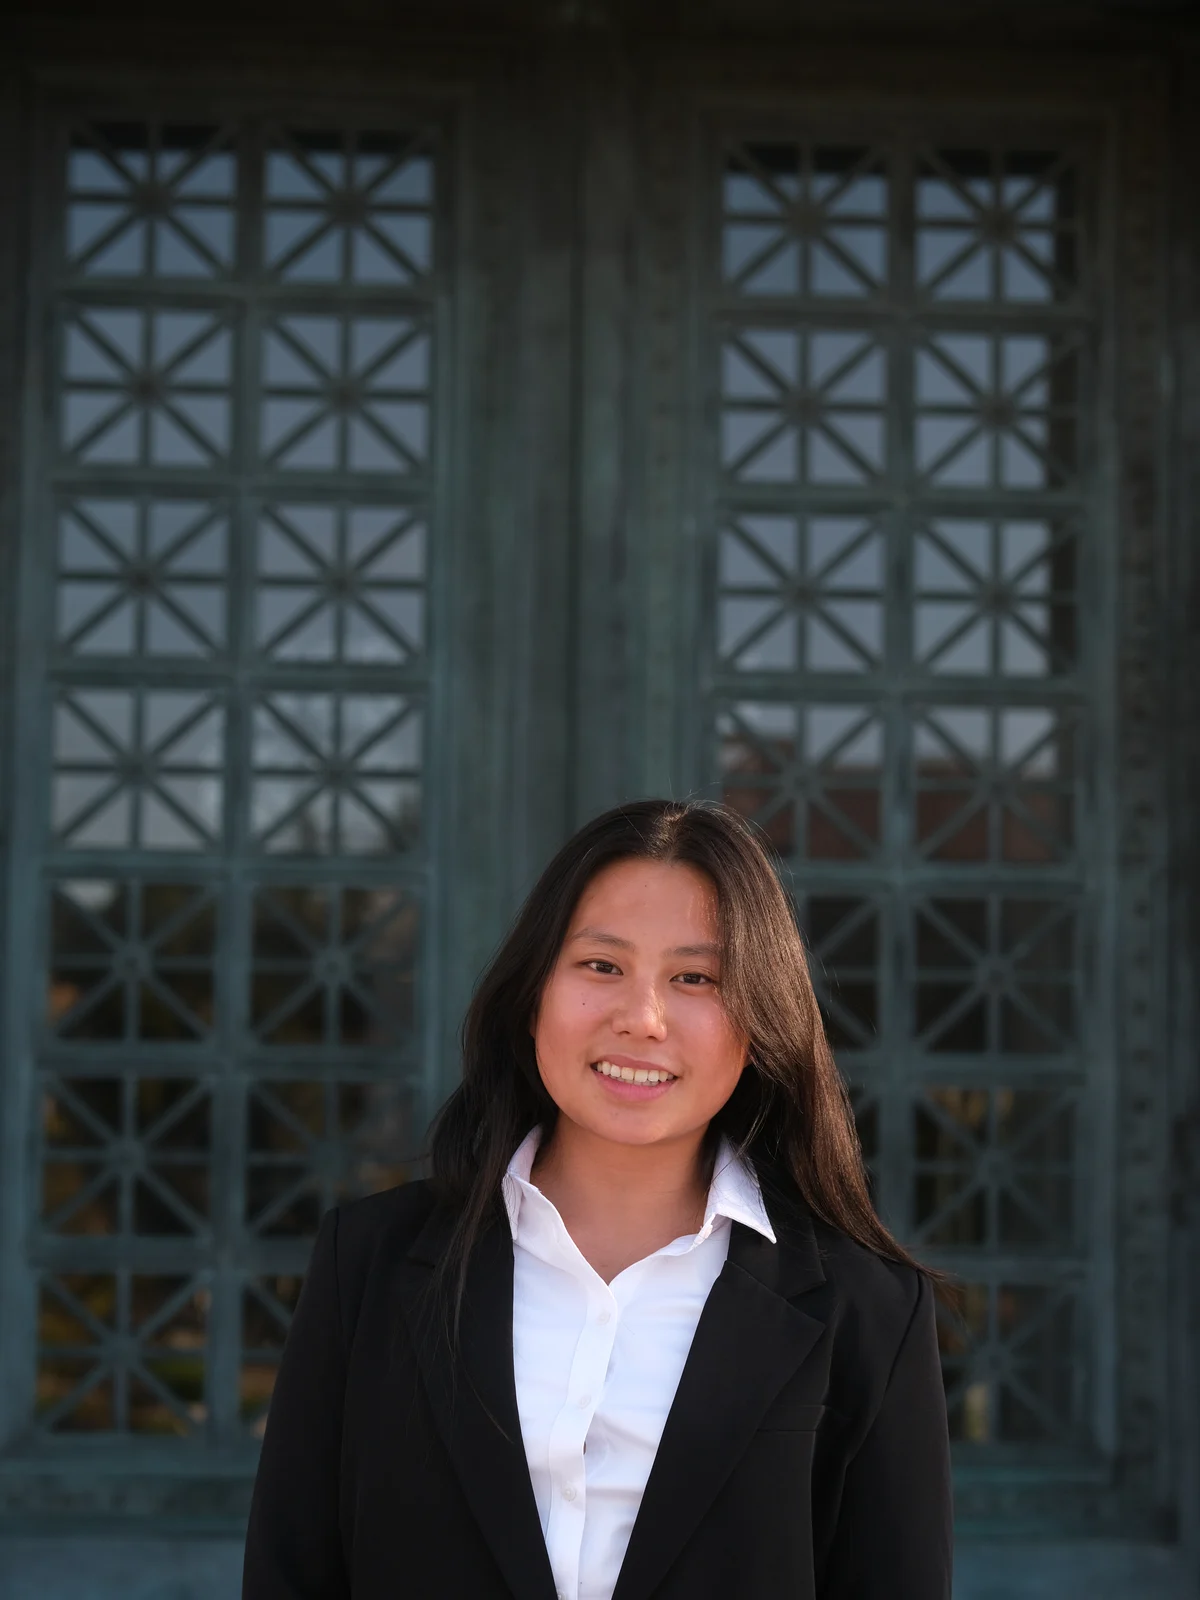
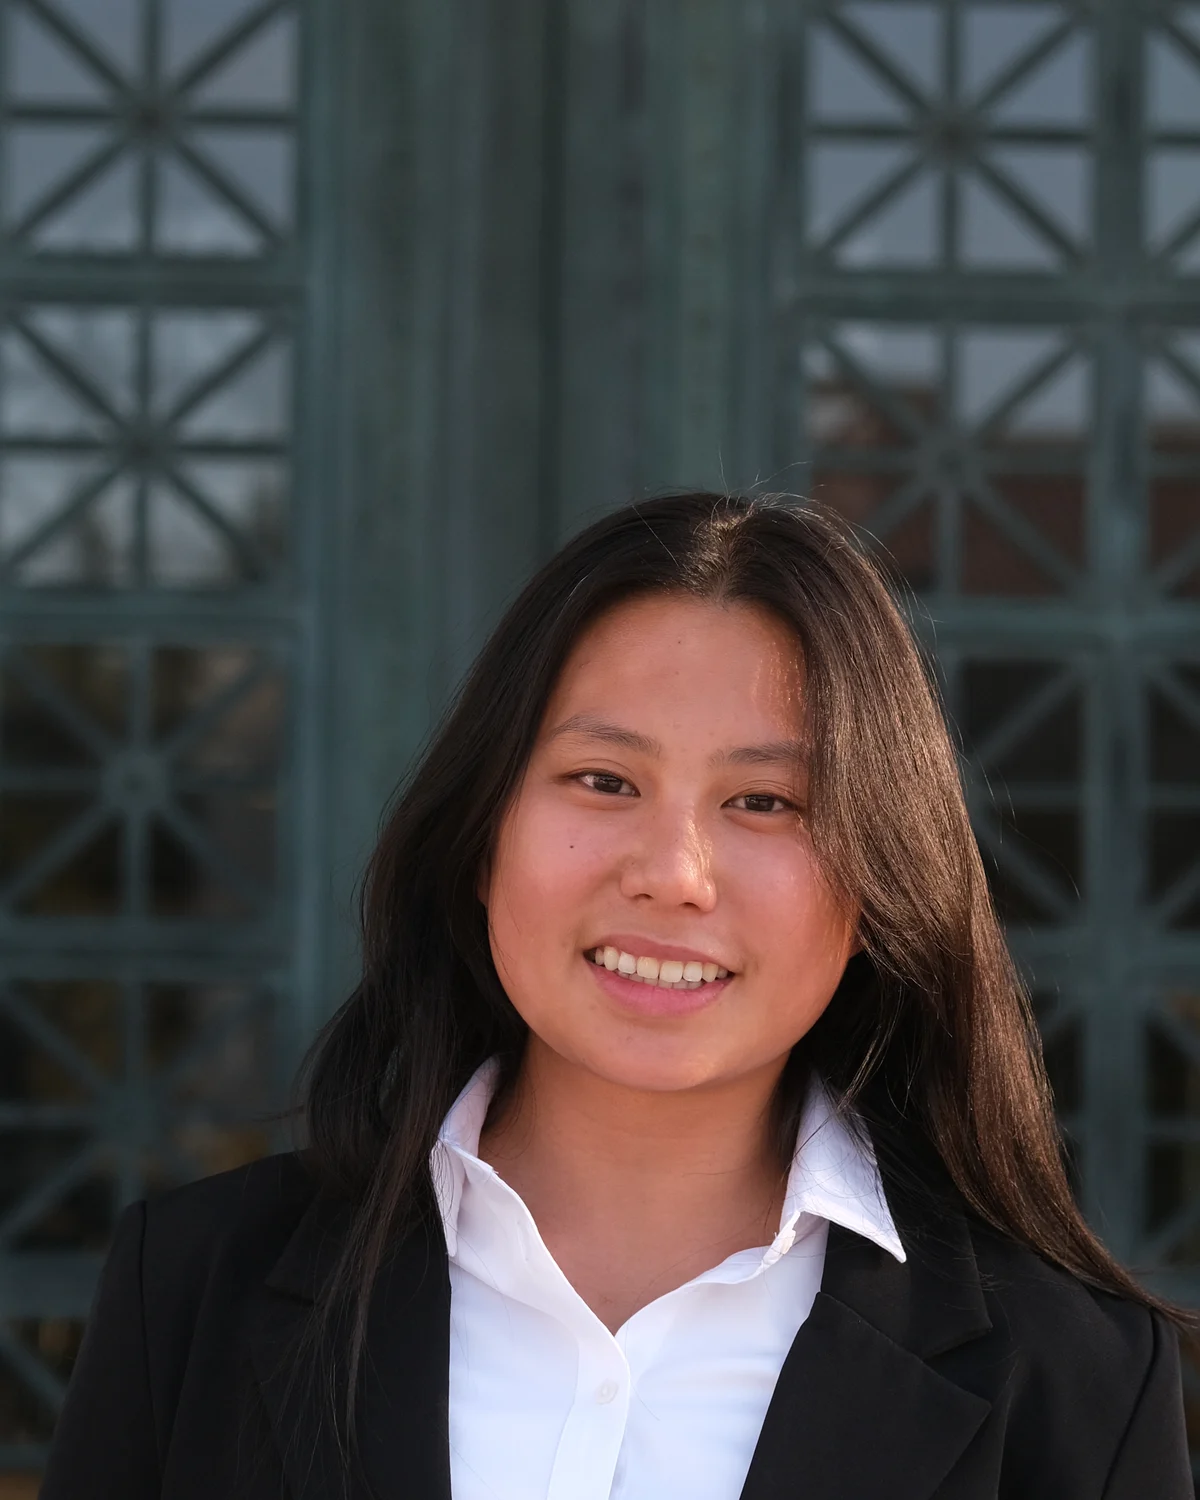
Fix Now Showing tickets; career hover; take-one schooling; casting crop; skills chips; LinkedIn; Inception note

diff --git a/index.html b/index.html
@@ -336,25 +336,19 @@
 
   <!-- ============ DIRECTOR'S NOTE ============ -->
   <section id="note" class="section note-wrap" aria-labelledby="note-title">
-    <article class="card note">
+    <article class="card note note--thought">
+      <p class="note__take" aria-hidden="true"><span class="clip clip--sm"></span>take one</p>
       <h2 id="note-title" class="title">A note from the director</h2>
-      <p class="note__hi">Hi, I&rsquo;m Sheina.</p>
-      <p>I&rsquo;m a junior at UC Berkeley studying Data Science and Business at Haas, and my work sits at the intersection of AI, product, and strategy.</p>
-      <p>This past summer that meant building an agentic procurement platform at Cloudflare. Before that it meant consulting for Series B through F companies on AI product decisions, launching Perplexity on campus (2,000 signups in 24 hours), and supporting M&amp;A deals in Indonesia at Deloitte (market sizing, buyer segmentation, due diligence and financial models). In high school I founded a cement company that rebuilt earthquake-damaged infrastructure and ended up on CNN. I&rsquo;m still not entirely sure how that happened.</p>
-      <p>What connects all of it is a tendency to show up at the messy early stage of hard problems, figure out what is actually going on, and build something that makes it better. I care about working on things that are genuinely difficult, with people who take the work seriously.</p>
-      <p>Lately I&rsquo;ve been doing more of the building myself as I move toward AI/ML. This little picture house is where I keep what I make along the way. The first two started with things that bugged me: the air I grew up breathing, and how many cookies follow me around the internet.</p>
+      <p class="note__hi">Favorite frame: <em>Inception</em>.</p>
+      <p>It&rsquo;s the movie that makes me think the longest after the credits. Nested dreams, unreliable layers, the question of what you&rsquo;re actually optimizing for when the world looks real enough. I keep coming back to it.</p>
       <p class="note__sign">Warmly,<span>Sheina</span></p>
-      <p class="note__ps">P.S. If you also boulder or have a movie I need to watch, tell me. Both require more patience than people expect.</p>
     </article>
 
-    <aside class="card soon" aria-labelledby="soon-title">
-      <h2 id="soon-title" class="soon__title">Currently in production</h2>
-      <dl>
-        <div><dt>working on</dt><dd><a href="https://berkeleytime.com/">Berkeleytime</a>, as a product manager and data analyst. I started out as one of its 20K+ users.</dd></div>
-        <div><dt>studying</dt><dd>Data Science + Business at Haas, class of 2028.</dd></div>
-        <div><dt>building</dt><dd>small AI/ML tools on the side, and showing them here.</dd></div>
-        <div><dt>reading</dt><dd>everything with Readwise open, so the highlights actually stick.</dd></div>
-      </dl>
+    <aside class="card soon soon--align" aria-labelledby="align-title">
+      <p class="soon__kicker">reel notes</p>
+      <h2 id="align-title" class="soon__title">On algorithmic safety</h2>
+      <p>Lately I&rsquo;ve been reading about AI alignment &mdash; how you get a system to care about the right thing when &ldquo;the right thing&rdquo; is hard to write down. Same itch as Inception: the map isn&rsquo;t the territory, and a confident model can still be dreaming.</p>
+      <p class="soon__fact"><b>A discovery I keep turning over:</b> most failures aren&rsquo;t cartoon villainy. They&rsquo;re specification gaming &mdash; hitting the metric while missing the meaning. That&rsquo;s the problem I want to get better at noticing.</p>
     </aside>
   </section>
 
@@ -398,7 +392,7 @@
         <p class="feature__kicker"><span>Feature No. 1</span><span class="chip chip--live">Live data</span></p>
         <h3 class="feature__title">Air Quality Explorer</h3>
         <ul class="chips" aria-label="Details"><li>web app</li><li>2026</li><li>data viz</li><li>forecasting</li><li>maps</li></ul>
-        <p>Live PM2.5 for 25 cities. History, a five-day forecast, a plain health note, and the cleanest hour to go outside. Grew out of my Haas PM2.5 research.</p>
+        <p>Live PM2.5 for 25 cities, mostly around the Bay plus big U.S. cities and Jakarta. Click a city for a week of history, a five-day forecast, a plain-English health note, and a small model that picks the cleanest hour to head outside. It grew out of my PM2.5 research at the Energy Institute at Haas.</p>
         <p class="fineprint"><b>A note on the print:</b> data from a global air-quality model, so it shows regional air, not street-level sensors.</p>
         <p class="tickets">
           <a class="ticket" href="https://sheinapribadi-star.github.io/air-quality-explorer/"><span class="ticket__stub">admit one</span><span class="ticket__main">Open the live site <span aria-hidden="true">&#8599;</span></span></a>
@@ -419,7 +413,7 @@
         <p class="feature__kicker"><span>Feature No. 2</span><span class="chip chip--live">v1.0.0</span></p>
         <h3 class="feature__title">Cookie Lens</h3>
         <ul class="chips" aria-label="Details"><li>chrome extension</li><li>2026</li><li>privacy</li><li>interface design</li></ul>
-        <p>A Chrome extension that names every cookie on the page and why it&rsquo;s there. Delete one or all; the dashboard shows who follows you across sites.</p>
+        <p>A Chrome extension that shows every cookie on the page you&rsquo;re on and labels the trackers with a plain reason, like &ldquo;set by pubmatic.com, a known ad tracker, lasts 3 months.&rdquo; Delete them one at a time or all at once, and open the dashboard to see which companies follow you across the most sites.</p>
         <p class="fineprint"><b>A note on the print:</b> ratings come from an open cookie database and Disconnect&rsquo;s tracker list. Nothing leaves your browser.</p>
         <p class="tickets">
           <a class="ticket" href="https://github.com/sheinapribadi-star/cookie-lens/releases/tag/v1.0.0"><span class="ticket__stub">take home</span><span class="ticket__main">Download v1.0.0 <span aria-hidden="true">&#8599;</span></span></a>
@@ -688,28 +682,21 @@
       </li>
     </ul>
     <div class="pair pair--studio">
-      <aside class="clipboard" aria-labelledby="school-title">
-        <div class="clipboard__clip" aria-hidden="true"><span></span></div>
-        <div class="clipboard__board">
-          <p class="clipboard__slug">TAKE ONE &middot; CONTINUITY</p>
-          <h3 id="school-title" class="clipboard__title">Schooling</h3>
-          <p class="clipboard__meta">shooting schedule &middot; Berkeley unit</p>
-          <ol class="clipboard__rows">
-            <li>
-              <span class="clipboard__sc">SC. 01</span>
-              <span class="clipboard__who">Haas School of Business</span>
-              <span class="clipboard__what">B.S. Business Administration</span>
-              <span class="clipboard__when">2024&ndash;2028</span>
-            </li>
-            <li>
-              <span class="clipboard__sc">SC. 02</span>
-              <span class="clipboard__who">CDSS</span>
-              <span class="clipboard__what">B.A. Data Science</span>
-              <span class="clipboard__when">2024&ndash;2028</span>
-            </li>
-          </ol>
-          <p class="clipboard__stamp" aria-hidden="true">APPROVED</p>
-        </div>
+      <aside class="take take--school" aria-labelledby="school-title">
+        <p class="take__clip" aria-hidden="true"><span class="clip clip--sm"></span></p>
+        <p class="take__slug">take one &middot; continuity</p>
+        <h3 id="school-title" class="take__title">Schooling</h3>
+        <p class="take__meta">Berkeley unit &middot; class of 2028</p>
+        <ul class="take__list">
+          <li>
+            <strong>Haas School of Business</strong>
+            <span>B.S. Business Administration &middot; 2024&ndash;2028</span>
+          </li>
+          <li>
+            <strong>CDSS</strong>
+            <span>B.A. Data Science &middot; 2024&ndash;2028</span>
+          </li>
+        </ul>
       </aside>
 
       <aside class="rt" aria-labelledby="reviews-title">
@@ -758,7 +745,7 @@
         <figure class="actor__photo">
           <span class="clip" aria-hidden="true"></span>
           <span class="tape" aria-hidden="true"></span>
-          <img src="/img/sheina-480.webp" srcset="/img/sheina-480.webp 480w, /img/sheina-800.webp 800w, /img/sheina-1200.webp 1200w" sizes="(min-width: 900px) 260px, 55vw" width="480" height="640" alt="Sheina smiling in a black blazer over a white collared shirt" loading="lazy" decoding="async" />
+          <img src="/img/sheina-480.webp" srcset="/img/sheina-480.webp 480w, /img/sheina-800.webp 800w, /img/sheina-1200.webp 1200w" sizes="(min-width: 900px) 260px, 55vw" width="480" height="600" alt="Sheina smiling in a black blazer over a white collared shirt" loading="lazy" decoding="async" />
         </figure>
         <article class="actor__sheet" aria-labelledby="cast-arch-k">
           <p class="cast__stamp" aria-hidden="true">Cast!</p>
@@ -767,9 +754,20 @@
           <p id="cast-arch-k" class="cast__k">archetype</p>
           <blockquote class="cast__arch"><p>&ldquo;A trusted and tactful trouble-shooter.&rdquo;</p></blockquote>
           <p class="cast__desc">Warm, value-driven, and at her best on work that meets a deep ideal.</p>
-          <ul class="actor__chips" aria-label="Quick facts">
-            <li>English &amp; Indonesian <small>native</small></li>
-            <li>Mandarin <small>basic</small></li>
+                    <ul class="actor__chips" aria-label="Languages, skills, and off-set habits">
+            <li class="chip--lang">English <small>native</small></li>
+            <li class="chip--lang">Indonesian <small>native</small></li>
+            <li class="chip--lang">Mandarin <small>basic</small></li>
+            <li>Sustainability strategy</li>
+            <li>Business Strategy</li>
+            <li>Project Management</li>
+            <li>Python</li>
+            <li>Data Analysis</li>
+            <li>Stakeholder Engagement</li>
+            <li>Consumer Research</li>
+            <li>Presentation Design</li>
+            <li>Marketing Campaigns</li>
+            <li>Event Management</li>
             <li>bouldering</li>
             <li>too many movies</li>
             <li>Readwise</li>
@@ -801,11 +799,6 @@
         </ul>
       </div>
     </div>
-    <div class="specs specs--slim" role="group" aria-labelledby="specs-title">
-      <p class="specs__bar" aria-hidden="true"><i></i><i></i><i></i><span>sheina --skills</span></p>
-      <h3 id="specs-title" class="sr">Skills</h3>
-      <ul class="specs__chips"><li>Sustainability strategy</li><li>Business Strategy</li><li>Project Management</li><li>Python</li><li>Data Analysis</li><li>Stakeholder Engagement</li><li>Consumer Research</li><li>Presentation Design</li><li>Marketing Campaigns</li><li>Event Management</li></ul>
-    </div>
   </section>
 
   <!-- ============ CONCESSION STAND ============ -->
@@ -823,6 +816,10 @@
           <li>
             <span class="menu__item">A peek at the code</span><span class="menu__dots" aria-hidden="true"></span><span class="menu__price">free</span>
             <span class="menu__detail"><a href="https://github.com/sheinapribadi-star">github.com/sheinapribadi-star</a></span>
+          </li>
+          <li>
+            <span class="menu__item">LinkedIn</span><span class="menu__dots" aria-hidden="true"></span><span class="menu__price">free</span>
+            <span class="menu__detail"><a href="https://www.linkedin.com/in/sheinapribadi">linkedin.com/in/sheinapribadi</a></span>
           </li>
           <li>
             <span class="menu__item">Popcorn</span><span class="menu__dots" aria-hidden="true"></span><span class="menu__price">on the house</span>

diff --git a/src/show.css b/src/show.css
@@ -774,43 +774,8 @@ html.js .actor:not(.is-in) .trait__bar i { transform: scaleX(0); }
   display: grid; grid-template-columns: repeat(auto-fill, minmax(200px, 1fr));
   gap: 1.1rem 1rem;
 }
-.ticket {
-  position: relative; width: 100%; height: 320px; perspective: 1200px;
-  list-style: none;
-}
-.ticket .poster__card {
-  border-radius: 12px;
-  box-shadow: 5px 5px 0 color-mix(in srgb, var(--ink) 70%, transparent);
-}
-.ticket .poster__face {
-  border: 2.5px solid var(--ink); border-radius: 12px;
-  padding: .85rem .85rem 1rem;
-  /* ticket stub edge */
-  background-image:
-    radial-gradient(circle at 0 50%, transparent 7px, var(--tint) 7.5px);
-  background-position: left center; background-size: 14px 100%; background-repeat: no-repeat;
-  padding-left: 1.15rem;
-}
-.ticket .poster__front {
-  background-color: var(--tint);
-  background-image:
-    radial-gradient(circle at 0 50%, var(--cream) 7px, transparent 7.5px),
-    linear-gradient(90deg, color-mix(in srgb, var(--ink) 12%, transparent) 0 10px, transparent 10px);
-}
-.ticket .poster__back {
-  background-color: var(--paper);
-  background-image:
-    radial-gradient(circle at 0 50%, var(--cream) 7px, transparent 7.5px),
-    linear-gradient(90deg, color-mix(in srgb, var(--ink) 10%, transparent) 0 10px, transparent 10px);
-}
-.ticket .poster__doodle { width: 78px; height: 78px; margin: .7rem auto .5rem; }
-.ticket .poster__title { font-size: 1.65rem; }
-.ticket .poster__title--long { font-size: 1.35rem; }
+/* neutralized broken .ticket booth rule */
 
-.ticket .poster__face { position: relative; }
-.ticket:nth-child(odd) { transform: rotate(-.6deg); }
-.ticket:nth-child(even) { transform: rotate(.7deg); }
-.ticket:hover { transform: rotate(0) translateY(-3px); z-index: 2; }
 @media (max-width: 520px) {
   .booth__grid { grid-template-columns: 1fr 1fr; gap: .7rem; }
   .ticket { height: 280px; }
@@ -898,7 +863,7 @@ html.js .actor:not(.is-in) .trait__bar i { transform: scaleX(0); }
   overflow: visible;
 }
 .actor__photo {
-  float: left; width: min(42%, 210px); margin: .15rem 1.1rem .6rem -.15rem;
+  float: left; width: min(46%, 230px); margin: .15rem 1.1rem .6rem -.15rem;
   position: relative; background: transparent; transform: rotate(-3.5deg);
   filter: drop-shadow(3px 4px 0 rgba(59,38,38,.25));
 }
@@ -1040,3 +1005,76 @@ html.js .actor:not(.is-in) .trait__bar i { transform: scaleX(0); }
 
 /* neutralize old ticket-booth overrides so strip posters look right again */
 .booth { display: contents; }
+
+/* career film-roll hover */
+.cell {
+  transition: transform .28s cubic-bezier(.3,1.4,.5,1), box-shadow .28s ease, border-color .2s ease, background .2s ease, filter .2s ease;
+}
+.cell:hover, .cell:focus-within {
+  transform: translateY(-8px) scale(1.03);
+  border-color: var(--butter);
+  box-shadow: 0 0 0 1px rgba(255,214,110,.35), 0 12px 28px rgba(0,0,0,.45), 0 0 24px rgba(255,214,110,.22);
+  background: #3a292a;
+  filter: brightness(1.08);
+  z-index: 2;
+}
+.cell:hover .cell__year { text-shadow: 0 0 22px rgba(255,214,110,.7); color: #ffe08a; }
+@media (prefers-reduced-motion: reduce) {
+  .cell, .cell:hover { transition: none; transform: none; }
+}
+
+.actor__photo img { object-position: center 35%; aspect-ratio: 4 / 5; min-height: 260px; }
+.actor__chips .chip--lang {
+  background: #2E2021; color: #FFF5E4; border-color: #2E2021;
+}
+.actor__chips .chip--lang small { color: var(--butter); }
+.actor__dossier::after { content: ""; display: table; clear: both; }
+
+.take {
+  position: relative; background: var(--paper); color: var(--ink);
+  border: 2px solid var(--ink); border-radius: 6px;
+  padding: 1.3rem 1.35rem 1.4rem; box-shadow: 6px 6px 0 var(--sky);
+  background-image: repeating-linear-gradient(transparent 0 30px, rgba(184,41,63,.1) 30px 31px);
+  transform: rotate(.4deg);
+}
+.take__clip { position: absolute; top: -10px; left: 1.1rem; margin: 0; }
+.clip--sm {
+  position: relative; display: inline-block; width: 22px; height: 28px; top: auto; left: auto; transform: none;
+  background: linear-gradient(#c0c6cc, #9aa3ab) 50% 0 / 14px 8px no-repeat,
+              linear-gradient(transparent 6px, #dfe3e6 6px) 50% 5px / 18px 18px no-repeat;
+  border-radius: 3px 3px 7px 7px; box-shadow: inset 0 -2px 0 rgba(0,0,0,.15);
+}
+.clip--sm::before {
+  content: ""; position: absolute; left: 4px; right: 4px; top: 10px; height: 11px;
+  border: 2px solid #7d868e; border-top: 0; border-radius: 0 0 5px 5px;
+}
+.take__slug { margin: .2rem 0 .35rem; font: 700 .7rem/1 var(--mono); letter-spacing: .14em; text-transform: uppercase; color: var(--muted); }
+.take__title { margin: 0 0 .2rem; font: 400 1.7rem/1.05 var(--display); }
+.take__meta { margin: 0 0 1rem; font-size: .9rem; color: var(--muted); }
+.take__list { list-style: none; margin: 0; padding: 0; }
+.take__list li { padding: .65rem 0; border-top: 1.5px dashed color-mix(in srgb, var(--ink) 28%, transparent); display: flex; flex-direction: column; gap: .15rem; }
+.take__list strong { font-weight: 900; font-size: 1.02rem; }
+.take__list span { color: var(--muted); font-size: .92rem; }
+
+/* director thought cards */
+.note--thought { position: relative; }
+.note__take { position: absolute; top: -0.55rem; left: 1.1rem; margin: 0; display: flex; align-items: center; gap: .45rem;
+  font: 700 .68rem/1 var(--mono); letter-spacing: .14em; text-transform: uppercase; color: var(--muted); background: var(--paper); padding: 0 .35rem; }
+.note__hi em { font-style: normal; color: var(--cherry); font-family: var(--display); font-size: 1.15em; }
+.soon--align .soon__kicker { margin: 0 0 .35rem; font: 700 .7rem/1 var(--mono); letter-spacing: .14em; text-transform: uppercase; color: var(--cherry); }
+.soon--align p { font-size: 1rem; line-height: 1.5; margin: 0 0 .75rem; }
+.soon__fact { background: color-mix(in srgb, var(--butter) 35%, var(--paper)); border: 2px dashed var(--ink); border-radius: 12px; padding: .8rem .9rem; }
+.soon__fact b { color: var(--cherry); }
+/* hide old clipboard if any leftover */
+.clipboard { display: none; }
+
+/* feature ticket CTAs — restore previous admit-one layout (override any stray rules) */
+.feature .ticket, .tickets > .ticket {
+  --n: 8px; display: inline-flex; width: auto; height: auto; perspective: none;
+  text-decoration: none; background: var(--cherry); color: var(--cherry-ink); border-radius: 8px; font-weight: 900; line-height: 1;
+  list-style: none; transform: none;
+  -webkit-mask: radial-gradient(circle var(--n) at 0 50%, #0000 98%, #000) left / 51% 100% no-repeat, radial-gradient(circle var(--n) at 100% 50%, #0000 98%, #000) right / 51% 100% no-repeat;
+          mask: radial-gradient(circle var(--n) at 0 50%, #0000 98%, #000) left / 51% 100% no-repeat, radial-gradient(circle var(--n) at 100% 50%, #0000 98%, #000) right / 51% 100% no-repeat;
+}
+.feature .ticket:hover, .tickets > .ticket:hover { transform: translateY(-3px) rotate(-2deg); }
+.booth { display: none !important; }
